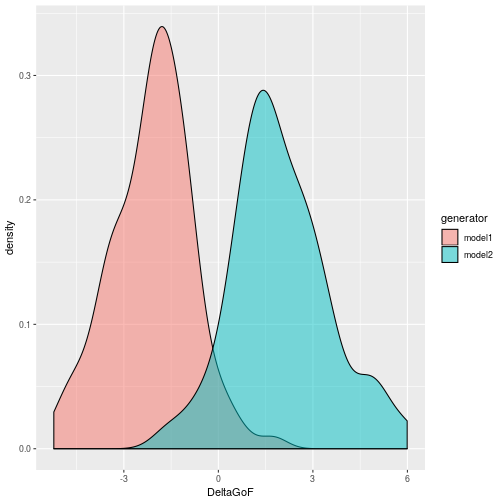
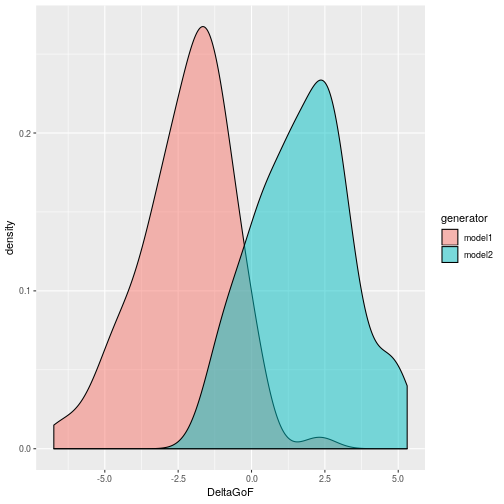
learning to use Rmd

diff --git a/README.md b/README.md
@@ -76,13 +76,13 @@ Here, `args1` and `args2` hold arguments passed to `myfitfun`, while `genargs1` 
 
 ```r
 head(myboot)
-#>   model1_p model2_p rep generator     GoF1     GoF2   DeltaGoF
-#> 1        1       NA   1    model1 21.77000 23.49642 -1.7264248
-#> 2        1       NA   2    model1 29.24174 29.86216 -0.6204199
-#> 3        1       NA   3    model1 24.19192 26.05298 -1.8610550
-#> 4        1       NA   4    model1 28.12335 30.07455 -1.9512002
-#> 5        1       NA   5    model1 23.12629 26.41142 -3.2851276
-#> 6        1       NA   6    model1 17.33502 20.07795 -2.7429362
+#>   model1_p model2_p rep generator     GoF1     GoF2  DeltaGoF
+#> 1        1       NA   1    model1 22.68337 24.77989 -2.096518
+#> 2        1       NA   2    model1 21.43128 22.71214 -1.280855
+#> 3        1       NA   3    model1 22.90281 24.29403 -1.391226
+#> 4        1       NA   4    model1 28.79140 33.44400 -4.652601
+#> 5        1       NA   5    model1 25.48357 28.14506 -2.661485
+#> 6        1       NA   6    model1 22.74750 28.30096 -5.553467
 ```
 
 We can easily produce a nice plot of the `DeltaGoF` distributions:
@@ -102,18 +102,31 @@ Since the definition of `DeltaGoF` is `GoF1 - GoF2`, and since we have defined `
 emp <- pbcm::empirical.GoF(mockdata, fun1=myfitfun, fun2=myfitfun, args1=list(p=1), args2=list(p=2))
 print(emp)
 #>       GoF1     GoF2  DeltaGoF
-#> 1 26.97882 32.13715 -5.158331
+#> 1 25.67226 29.05611 -3.383852
 ```
 
 This suggests that model 1 is the true generator, since the empirical value of `DeltaGoF` would appear to be closer to that distribution. To get a more quantitative angle on this, we can use e.g. *k* nearest neighbours (*k*-NN) classification to decide the issue:
 
 
 ```r
-kNN.classification(df=myboot, DeltaGoF.emp=emp$DeltaGoF, k=10)
-#> Error in kNN.classification(df = myboot, DeltaGoF.emp = emp$DeltaGoF, : could not find function "kNN.classification"
+pbcm::kNN.classification(df=myboot, DeltaGoF.emp=emp$DeltaGoF, k=10)
+#>    k dist_model1 dist_model2 decision
+#> 1 10   0.2064586    58.25977   model1
 ```
 
 Comparing the empirical value of `DeltaGoF` to its 10 nearest neighbours in both bootstrap distributions, the distance to the model 1 distribution is smaller, hence model 1 is selected.
+
+We can even try different values of *k* to see if that has any effect on the decision:
+
+
+```r
+pbcm::kNN.classification(df=myboot, DeltaGoF.emp=emp$DeltaGoF, k=c(1, 10, 50, 100))
+#>     k  dist_model1 dist_model2 decision
+#> 1   1 2.706938e-07    3.615013   model1
+#> 2  10 2.064586e-01   58.259770   model1
+#> 3  50 4.436530e+01  766.835115   model1
+#> 4 100 3.770179e+02 2886.692954   model1
+```
 
 
 ## References
